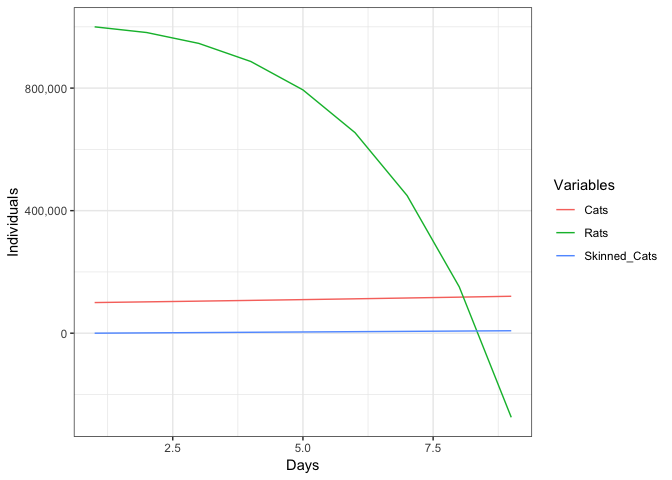
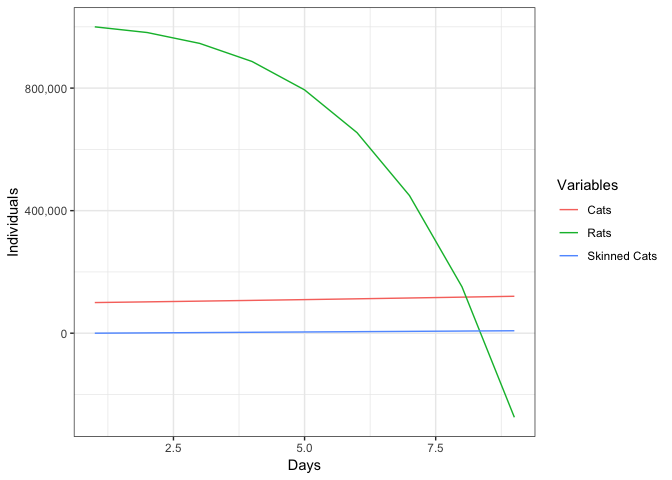
udpate legend labels

diff --git a/Cats_rats_code.md b/Cats_rats_code.md
@@ -74,7 +74,8 @@ gather(key = "Variables", value = "Individuals", -time) %>% ggplot(aes(x = time,
     y = Individuals, color = Variables)) + geom_line() + theme_bw() + 
     # reformat y axis
 scale_y_continuous(labels = function(x) format(x, big.mark = ",", 
-    scientific = F)) + # add xlabel
+    scientific = F)) + scale_color_discrete(labels = c("Cats", 
+    "Rats", "Skinned Cats")) + # add xlabel
 xlab("Days")
 ```
 
@@ -88,7 +89,8 @@ gather(key = "Variables", value = "Individuals", -time) %>% ggplot(aes(x = time,
     y = Individuals, color = Variables)) + geom_line() + theme_bw() + 
     # reformat y axis
 scale_y_continuous(labels = function(x) format(x, big.mark = ",", 
-    scientific = F), limits = c(0, 1e+06)) + # add xlabel
+    scientific = F), limits = c(0, 1e+06)) + scale_color_discrete(labels = c("Cats", 
+    "Rats", "Skinned Cats")) + # add xlabel
 xlab("Days")
 ```
 
@@ -149,7 +151,8 @@ model_output %>% gather(key = "Variables", value = "Individuals",
     -time) %>% ggplot(aes(x = time, y = Individuals, color = Variables)) + 
     geom_line() + theme_bw() + # reformat y axis
 scale_y_continuous(labels = function(x) format(x, big.mark = ",", 
-    scientific = FALSE)) + # change x axis
+    scientific = FALSE)) + scale_color_discrete(labels = c("Cats", 
+    "Rats", "Skinned Cats")) + # change x axis
 xlab("Days")
 ```
 
